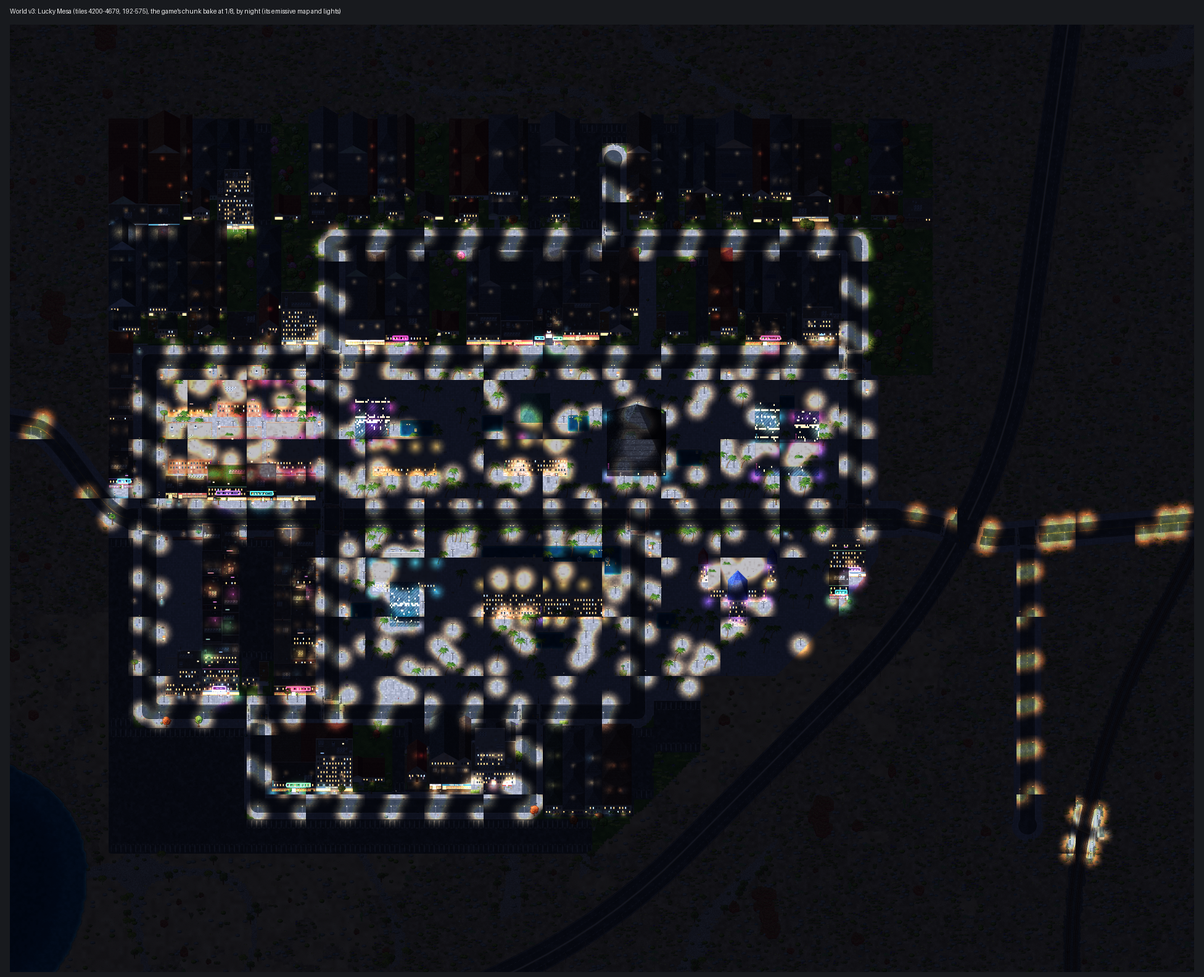
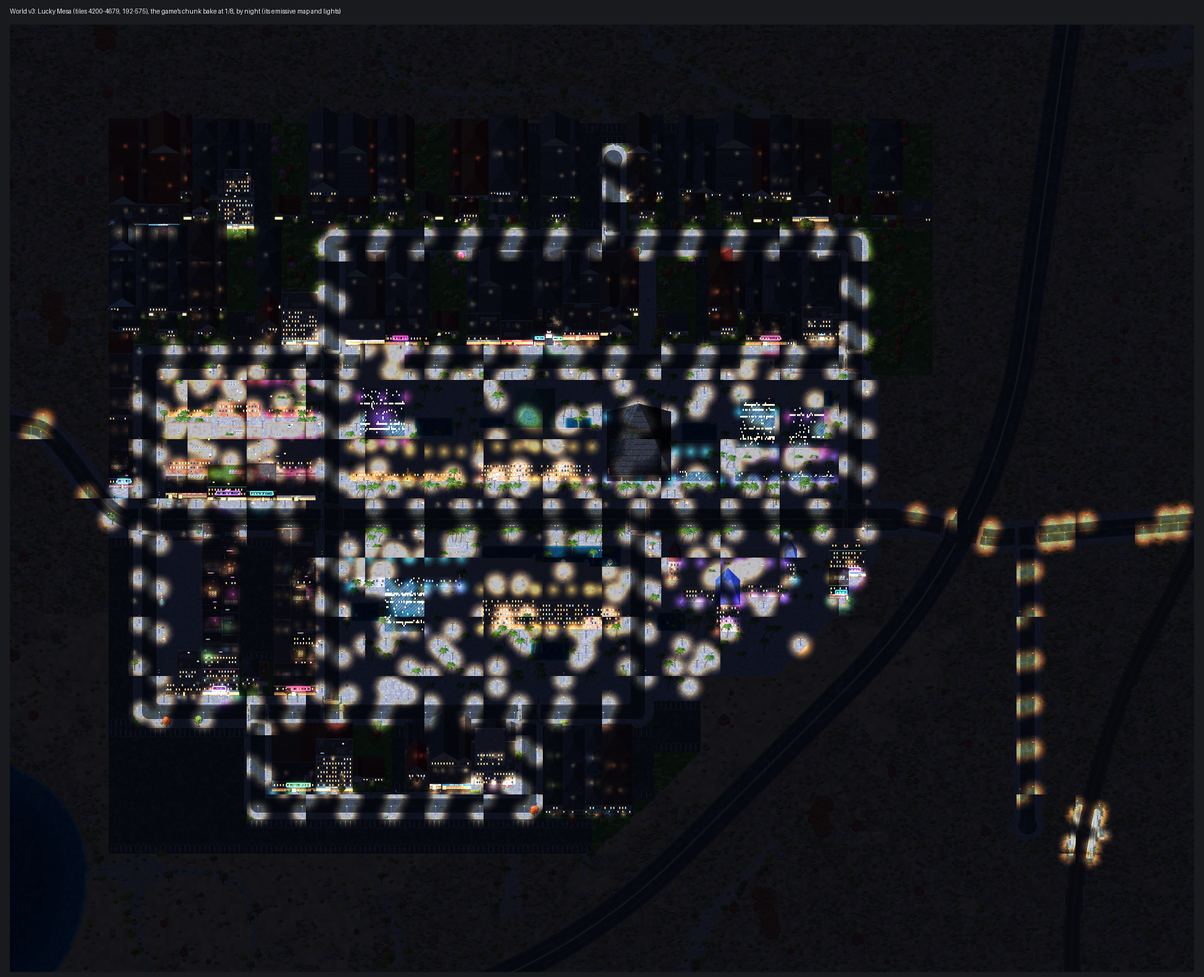
World v3: Lucky Mesa's resorts fill their lots (wings, bigger towers, roof kits), the covered street's strings of lights; 8.15 and the DEVLOG; the biomes test counts 63 districts
Claude-Session: https://claude.ai/code/session_015TdwbASoLBxZr1VoEZGToX

Changed region(s): [[0.125, 0.3403, 0.7188, 0.5259], [0.2812, 0.5568, 0.6875, 0.6806]]

diff --git a/shared/world3-mesa.js b/shared/world3-mesa.js
@@ -171,7 +171,7 @@ export function mesaLots(m) {
 // a building of the city's own (a roof record for the classic renderer, its look in `art` for art v2): solid tiles
 function addBld(m, x, y, w, h, kind, name, roofKind, look, art) {
   const W = m.w, bid = m.buildings.length;
-  for (let ty = y; ty < y + h; ty++) for (let tx = x; tx < x + w; tx++) { const i = ty * W + tx; if (m.tiles[i] === T.ROAD || m.tiles[i] === T.SIDEWALK || m.bld[i] >= 0) return null; }
+  for (let ty = y; ty < y + h; ty++) for (let tx = x; tx < x + w; tx++) { const i = ty * W + tx; if (m.tiles[i] !== T.PLAZA || !mine(m, i) || m.bld[i] >= 0) return null; }   // (only on the city's kept paving)
   m.roofs.push({ tx: x, ty: y, tw: w, th: h, kind: roofKind, seed: (Math.imul(x, 7919) ^ Math.imul(y, 104729)) >>> 0, d: m.dist[(y + (h >> 1)) * W + x + (w >> 1)], b: bid, resort: look });
   const b = { id: bid, prefab: -1, roof: m.roofs.length - 1, tx: x, ty: y, tw: w, th: h, kind, name, business: null, signs: [], art };
   m.buildings.push(b);
@@ -194,41 +194,51 @@ export function buildMesa(m, addProp) {
     // a rect in the lot's own terms: fx across it from its west edge, fd back from its front (the Strip's side)
     const rect = (fx, fd, w, d) => [x0 + fx, S ? y1 - fd - d : y0 + fd, w, d];
     const blds = [];
-    const put = (fx, fd, w, d, name, look, spec, lights, kit) => { const [x, y] = rect(fx, fd, w, d); const b = addBld(m, x, y, w, d, 'hotel', name, look === 'pyramid' ? 'glass' : 'gravel', look, { spec, lights, kit: kit || [], noShop: true, resort: R.look }); if (b) blds.push(b); return b; };
+    // (on a flat roof: a tower's helipad and water tank, a podium's air handlers - art v2's roof kit, px from its north-west)
+    const roofKit = (w, d, spec) => (spec.pitch ? [] : spec.floors >= 8 ? [['heli', w * TILE / 2, d * TILE / 2 + 40], ['tank', w * TILE - 50, 60], ['ac', 50, 60]] : [['hvac', w * TILE / 2, d * TILE / 2], ['ac', 60, 70], ['ac', w * TILE - 70, 70], ['vent', w * TILE - 60, d * TILE - 50]]);
+    const put = (fx, fd, w, d, name, look, spec, lights, kit) => { const [x, y] = rect(fx, fd, w, d); const b = addBld(m, x, y, w, d, 'hotel', name, look === 'pyramid' ? 'glass' : 'gravel', look, { spec, lights, kit: kit || roofKit(w, d, spec), noShop: true, resort: R.look }); if (b) blds.push(b); return b; };
     const mid = LW >> 1;
     const st = (o) => ({ style: 'stone', parapet: 12, roofMat: 'membrane', lip: 8, rimW: 4, ...o });
+    // (each building at most 26 tiles wide - art v2 draws it whole; a wide front is two wings side by side)
     if (R.look === 'lotus') {
-      put(mid - 13, 10, 26, 12, R.name, 'lotus', st({ floors: 2, wallColor: '#e8d6a8' }), neon(26, 12, 120, C.gold));
-      put(6, 24, 14, 14, `${R.name} Tower`, 'lotus', { floors: 10, style: 'glass', wallColor: '#c8a050', parapet: 18, roofMat: 'membrane', lip: 10 }, [...neon(14, 14, 640, C.pink, 2), [7 * TILE, -7 * TILE, 700, 260, C.pink, 2, 'neon']]);
-      water(...poolAt(rect(24, 26, 14, 7)));
+      put(4, 8, 24, 14, R.name, 'lotus', st({ floors: 2, wallColor: '#e8d6a8' }), neon(24, 14, 120, C.gold));
+      put(28, 8, 21, 12, `${R.name} Wing`, 'lotus', st({ floors: 2, wallColor: '#e2cc98' }), neon(21, 12, 120, C.gold));
+      put(8, 24, 18, 18, `${R.name} Tower`, 'lotus', { floors: 12, style: 'glass', wallColor: '#c8a050', parapet: 18, roofMat: 'membrane', lip: 10 }, [...neon(18, 18, 760, C.pink, 2), [9 * TILE, -9 * TILE, 820, 300, C.pink, 2.2, 'neon']]);
+      water(...poolAt(rect(30, 26, 16, 8)));
     } else if (R.look === 'dome') {
-      put(mid - 13, 10, 26, 14, R.name, 'dome', st({ floors: 4, wallColor: '#efe6d2' }), neon(26, 14, 240, C.gold));
-      put(mid - 6, 26, 12, 12, `${R.name} Dome`, 'dome', { floors: 3, style: 'stone', wallColor: '#e6dcc4', pitch: 'hip', slope: 0.95, roof: 'shingle', roofColor: '#4f8f80' }, [[6 * TILE, -6 * TILE, 330, 220, C.gold, 1.6, 'neon']]);
-      water(...poolAt(rect(4, 28, 9, 7))); water(...poolAt(rect(LW - 13, 28, 9, 7)));
+      put(3, 8, 23, 14, R.name, 'dome', st({ floors: 4, wallColor: '#efe6d2' }), neon(23, 14, 240, C.gold));
+      put(26, 8, 23, 14, `${R.name} East Wing`, 'dome', st({ floors: 4, wallColor: '#efe6d2' }), neon(23, 14, 240, C.gold));
+      put(18, 24, 16, 16, `${R.name} Dome`, 'dome', { floors: 3, style: 'stone', wallColor: '#e6dcc4', pitch: 'hip', slope: 0.95, roof: 'shingle', roofColor: '#4f8f80' }, [[8 * TILE, -8 * TILE, 380, 240, C.gold, 1.6, 'neon']]);
+      water(...poolAt(rect(3, 26, 11, 8))); water(...poolAt(rect(38, 26, 11, 8)));
     } else if (R.look === 'pyramid') {
-      put(3, 10, 24, 24, R.name, 'pyramid', { floors: 1, style: 'stone', wallColor: '#2a2c34', pitch: 'hip', slope: 1.25, roof: 'shingle', roofColor: '#20232c' }, [[12 * TILE, -12 * TILE, 900, 420, C.white, 2.4, 'lamp'], ...neon(24, 24, 40, C.cyan, 2)]);
-      water(...poolAt(rect(31, 14, 11, 7)));
+      put(3, 8, 26, 26, R.name, 'pyramid', { floors: 1, style: 'stone', wallColor: '#2a2c34', pitch: 'hip', slope: 1.25, roof: 'shingle', roofColor: '#20232c' }, [[13 * TILE, -13 * TILE, 1000, 460, C.white, 2.4, 'lamp'], ...neon(26, 26, 40, C.cyan, 2)]);
+      put(31, 8, 18, 12, `${R.name} Hall`, 'pyramid', st({ floors: 2, style: 'glass', wallColor: '#24262e' }), neon(18, 12, 120, C.cyan));
+      water(...poolAt(rect(33, 24, 15, 8)));
     } else if (R.look === 'glass') {
-      put(mid - 13, 10, 26, 10, R.name, 'glass', st({ floors: 2, style: 'glass', wallColor: '#2c3c5c' }), neon(26, 10, 120, C.violet));
-      put(mid - 13, 22, 10, 12, `${R.name} East`, 'glass', { floors: 10, style: 'glass', wallColor: '#4a7ab0', parapet: 12, roofMat: 'membrane', lip: 8 }, neon(10, 12, 640, C.cyan, 2));
-      put(mid + 3, 22, 10, 12, `${R.name} West`, 'glass', { floors: 8, style: 'glass', wallColor: '#9a4a9a', parapet: 12, roofMat: 'membrane', lip: 8 }, neon(10, 12, 530, C.pink, 2));
-      water(...poolAt(rect(mid - 5, 37, 10, 6)));
+      put(3, 8, 24, 10, R.name, 'glass', st({ floors: 2, style: 'glass', wallColor: '#2c3c5c' }), neon(24, 10, 120, C.violet));
+      put(27, 8, 16, 10, `${R.name} Hall`, 'glass', st({ floors: 2, style: 'glass', wallColor: '#2c3c5c' }), neon(16, 10, 120, C.violet));
+      put(5, 20, 14, 16, `${R.name} East`, 'glass', { floors: 12, style: 'glass', wallColor: '#4a7ab0', parapet: 12, roofMat: 'membrane', lip: 8 }, neon(14, 16, 760, C.cyan, 2));
+      put(25, 20, 14, 14, `${R.name} West`, 'glass', { floors: 10, style: 'glass', wallColor: '#9a4a9a', parapet: 12, roofMat: 'membrane', lip: 8 }, neon(14, 14, 640, C.pink, 2));
+      water(...poolAt(rect(28, 38, 15, 7)));
     } else if (R.look === 'star') {
-      put(mid - 13, 10, 26, 12, R.name, 'star', st({ floors: 2, wallColor: '#e4e8ee' }), neon(26, 12, 120, C.cyan));
-      put(mid - 6, 24, 12, 12, `${R.name} Spire`, 'star', { floors: 10, style: 'glass', wallColor: '#dde4ee', parapet: 22, roofMat: 'membrane', lip: 10 }, [...neon(12, 12, 660, C.white, 2), [6 * TILE, -6 * TILE, 720, 300, C.cyan, 2.2, 'neon']]);
-      water(...poolAt(rect(4, 26, 9, 7)));
+      put(4, 8, 24, 12, R.name, 'star', st({ floors: 2, wallColor: '#e4e8ee' }), neon(24, 12, 120, C.cyan));
+      put(28, 8, 21, 12, `${R.name} Wing`, 'star', st({ floors: 2, wallColor: '#dde2ea' }), neon(21, 12, 120, C.cyan));
+      put(18, 22, 16, 16, `${R.name} Spire`, 'star', { floors: 12, style: 'glass', wallColor: '#dde4ee', parapet: 22, roofMat: 'membrane', lip: 10 }, [...neon(16, 16, 780, C.white, 2), [8 * TILE, -8 * TILE, 840, 320, C.cyan, 2.2, 'neon']]);
+      water(...poolAt(rect(4, 26, 12, 8)));
     } else if (R.look === 'lake') {
-      water(...poolAt(rect(4, 3, LW - 8, 12), true), true);
-      put(4, 19, 25, 14, R.name, 'lake', st({ floors: 6, wallColor: '#efe2c8' }), neon(25, 14, 360, C.gold));
-      put(29, 19, 25, 14, `${R.name} South`, 'lake', st({ floors: 5, wallColor: '#e8dac0' }), neon(25, 14, 300, C.gold));
-      water(...poolAt(rect(mid - 6, 38, 12, 7)));
-      const [lx, ly, lw, ld] = rect(4, 3, LW - 8, 12);
-      for (let k = 0; k < 5; k++) { addProp(m, 'fountain', (lx + lw * (k + 0.5) / 5) * TILE, (ly + ld / 2) * TILE, 0); out.lake++; }
+      water(...poolAt(rect(4, 3, LW - 8, 14), true), true);
+      put(4, 21, 22, 16, R.name, 'lake', st({ floors: 7, wallColor: '#efe2c8' }), neon(22, 16, 420, C.gold));
+      put(26, 21, 22, 16, `${R.name} Center`, 'lake', st({ floors: 6, wallColor: '#ece0c6' }), neon(22, 16, 360, C.gold));
+      put(48, 21, 13, 16, `${R.name} South`, 'lake', st({ floors: 5, wallColor: '#e8dac0' }), neon(13, 16, 300, C.gold));
+      water(...poolAt(rect(24, 42, 16, 8)));
+      const [lx, ly, lw, ld] = rect(4, 3, LW - 8, 14);
+      for (let k = 0; k < 6; k++) { addProp(m, 'fountain', (lx + lw * (k + 0.5) / 6) * TILE, (ly + ld / 2) * TILE, 0); out.lake++; }
     } else if (R.look === 'castle') {
-      put(mid - 12, 12, 24, 14, R.name, 'castle', st({ floors: 3, wallColor: '#f2f0ea', parapet: 16 }), neon(24, 14, 200, C.violet));
-      for (const [fx, col] of [[mid - 16, '#c83a3a'], [mid + 12, '#3a5ac8']]) put(fx, 14, 4, 4, `${R.name} Turret`, 'castle', { floors: 4, style: 'stone', wallColor: '#f2f0ea', pitch: 'hip', slope: 2.4, roof: 'shingle', roofColor: col }, []);
-      put(mid - 4, 28, 8, 8, `${R.name} Keep`, 'castle', { floors: 6, style: 'stone', wallColor: '#ecebe6', pitch: 'hip', slope: 2.0, roof: 'shingle', roofColor: '#3a5ac8' }, [[4 * TILE, -4 * TILE, 420, 200, C.violet, 1.6, 'neon']]);
-      water(...poolAt(rect(4, 30, 9, 7)));
+      put(14, 10, 24, 16, R.name, 'castle', st({ floors: 3, wallColor: '#f2f0ea', parapet: 16 }), neon(24, 16, 200, C.violet));
+      put(38, 10, 18, 14, `${R.name} Hall`, 'castle', st({ floors: 3, wallColor: '#eeece4', parapet: 16 }), neon(18, 14, 200, C.violet));
+      for (const [fx, col] of [[9, '#c83a3a'], [56, '#3a5ac8']]) put(fx, 12, 5, 5, `${R.name} Turret`, 'castle', { floors: 4, style: 'stone', wallColor: '#f2f0ea', pitch: 'hip', slope: 2.4, roof: 'shingle', roofColor: col }, []);
+      put(28, 28, 10, 10, `${R.name} Keep`, 'castle', { floors: 6, style: 'stone', wallColor: '#ecebe6', pitch: 'hip', slope: 2.0, roof: 'shingle', roofColor: '#3a5ac8' }, [[5 * TILE, -5 * TILE, 460, 220, C.violet, 1.6, 'neon']]);
+      water(...poolAt(rect(4, 30, 12, 8)));
     }
     // the casino's door on the podium's front (the first building), a named place for the gambling to come (GM3, GM4)
     const main = blds[0];
@@ -255,6 +265,9 @@ export function buildMesa(m, addProp) {
   // Old Downtown's covered street: lamps down its middle under the canopy, the old casinos either side fronting it
   const [cx0, cy0, cx1, cy1] = MESA.canopy;
   for (let x = cx0 + 3; x < cx1 - 2; x += 6) addProp(m, 'lamp', (x + 0.5) * TILE, (cy0 + cy1) / 2 * TILE, 5);
+  // the canopy of lights: strings of bulbs across the street every two tiles, high over the crowd, and two along it
+  for (let x = cx0 + 1; x < cx1; x += 2) { addProp(m, 'festoon', (x + 0.5) * TILE, cy0 * TILE + 4, 0, { tx: 0, ty: (cy1 - cy0) * TILE - 8, h: 110 }); out.lights = (out.lights || 0) + 1; }
+  for (const y of [cy0 + 0.2, cy1 - 0.2]) addProp(m, 'festoon', (cx0 + 0.5) * TILE, y * TILE, 0, { tx: (cx1 - cx0 - 1) * TILE, ty: 0, h: 112 });
   const warm = ['#d8b890', '#c89878', '#e0c8a0', '#b88868', '#d0a080', '#c8b098'];
   MESA.oldCasinos.forEach(([name, a, b, side], k) => {
     const N = side === 'N', y = N ? cy0 - 16 : cy1, w = b - a, d = 15;

diff --git a/test/world3biomes.test.js b/test/world3biomes.test.js
@@ -14,7 +14,7 @@ import { prepare } from '../tools/world3-build.mjs';
 
 test('World v3: the mainland\'s biomes - their districts, ground and dressing; Northshore at its beach', { timeout: 300000 }, () => {
   // the new districts are the generator's (after today's: today's ids don't move), shaped like today's
-  assert.equal(DISTRICTS.length, 60);   // (57-59: the first mainland towns, 8.13 - test/world3towns.test.js)
+  assert.equal(DISTRICTS.length, 63);   // (57-59: the first mainland towns, 8.13 - test/world3towns.test.js; 60-62: Lucky Mesa, 8.15 - test/world3mesa.test.js)
   DISTRICTS3.forEach((d, k) => assert.equal(DISTRICTS[47 + k], d));
   const prep = prepare();
   const m = generateCity(1337, { world3: true, frame: { w: FRAME_W, h: FRAME_H }, land: prep.land, today: prep.today });

diff --git a/docs/WORLD-V3.md b/docs/WORLD-V3.md
@@ -3061,3 +3061,104 @@ the logging town's wooden shopfronts with porches, the sawmill and log yard, the
 grain elevator and silos, the feed store, the co-op with its loading dock; the beach town's surf shop, cottages, beach
 houses on stilts - and the planned places put in them (`TOWN_SPECIALS`); the boardwalk as a model of its own (rails,
 benches, the pier's end); the lots at the corners of Willow Crossing's loops.
+
+### 8.15 Lucky Mesa, the casino city (2026-10-11, H38)
+
+Part 1.3's three new districts and 1.5 R6: the Strip of themed resorts, the old downtown's covered street of lights, the
+side streets with motels, wedding chapels, pawn shops, a trailer park and tract homes, the syndicate's back rooms
+(concepts VG1, VG2; prompts VG3, VG4). Built by today's generator on new ground round the skeleton's town point
+(4600, 420), where Mesa Road and Route 9 meet the Desert Highway at grade. Nothing live changes: the world hash stays
+`6b6e16fdef9f`; the city's code is `shared/world3-mesa.js` (the world build's only: the page and the city worker never
+import it); `shared/mapcore.js` `DISTRICTS` has three more entries (60-62).
+
+**How it is built** (`shared/world3-mesa.js`, one call each from `shared/world3-world.js`, as the towns, 8.13):
+- **Its districts** (`DISTRICTS` 60-62, after the towns' 57-59, so no id moves): **The Strip** (`nightlife`, `lux`),
+  **Old Downtown** (`nightlife`, `low`) and **Mesa Flats**, the side streets and suburbs (`houses`, `suburb`), painted
+  with the mainland's built zone (8) on the land layer by `paintMesa3` (`MESA.ground`: boxes, a later district over an
+  earlier) off the Desert Highway's room (24 tiles), the main line's (18) and its station's (30); the desert's sand under
+  the city is made plain desert, so the build lays lots there, not a beach.
+- **Its streets** (`layMesa3`, the `lines` hook after the towns' and the beach towns'): **the Strip is Mesa Road pulled
+  straight** on row 392 from Gold Street to the hub (the towns' `pull`, 8.13.1; `pulledAt` knows it) and its straight
+  run laid as a boulevard (`blvd`: two lanes each way with a median, commercial pavements) - 308 tiles of it; the side
+  streets (`st`): Palm Row behind the north resorts, Chapel Street, Gold Street and Silver Street round Old Downtown (both
+  across the Strip), Lucky Street and Cactus Street, Mesa Flats Drive and the trailer park's loop (Trailer Lane), a lane
+  out into the desert (Chapel Lane, ending in a turnaround) and **Station Road** from Route 9 down to the main line's
+  Lucky Mesa station (8.10), ending beside its platforms.
+- **The lots** (`mesaLots`, the `rails` hook, before the blocks): the seven resorts' lots along the Strip, end to end,
+  and Old Downtown's covered street with its old casinos' lots, kept as paving (reserve 4, the promenade's: no block
+  takes them, nothing is dressed on them).
+- **The resorts** (`buildMesa`, the `dress` hook: the props have their pass), each a big footprint of its own invented
+  look, the casino's door on the Strip (a named place, `delivery`, fixed, marked `casino`: the gambling to come, GM3 and
+  GM4 - not walk-ins yet): **The Golden Lotus** (a gold glass tower behind a cream casino podium, pink neon at its top),
+  **Palazzo Aurelio** (a palace of two cream wings round a copper-green domed hall, a pool each side), **The Sunstone
+  Pyramid** (a black glass pyramid, 26 tiles square, with its beam of light and a black glass hall), **The Prism**
+  (twin glass towers, blue and violet, over a dark glass podium), **Starfall Tower** (a white glass spire over a white
+  podium), **The Silver Lagoon** (three cream wings behind the fountain lake, six fountains in it) and **Castillo Dorado**
+  (a white castle with red and blue coned turrets and a blue-roofed keep). Each has its porte-cochere drive along the
+  Strip (palms along it, lamps at the door), its pools with loungers and umbrellas, palms round them. Their looks are
+  the buildings' `art` (art v2's `statics.js` reads it, as the hero corner's: the spec - floors, walls, the pitched roofs
+  of the pyramid, the dome and the turrets - and the neon along their top edges at night); no art code changed. The
+  classic renderer draws them as hotels with their roofs (`resort` on the roof record says which look, for later).
+- **Old Downtown's covered street of lights** (`MESA.canopy`): a pedestrian street of paving seven tiles wide between
+  Gold and Silver streets, lamps down its middle, three old casinos either side fronting it - The Gilded Spur, The Dusty
+  Ace, The Prospector, Wagon Wheel Casino, Silver Mule Casino, Rattlesnake Ruby - with bulb-sign neon along their fronts.
+- **The planned places** (`MESA_SPECIALS`, handed in with the towns' as `opts.specials`; fixed): in Old Downtown
+  Second Roll Pawn and Blue Chip Pawn & Loan (a strip with a jeweller and a cash exchange), The Copper Room Supper Club
+  with **The Counting Room** (`gang`: the syndicate's back rooms, VG2), Mesa Savings & Trust (`bank`), Club Neon Cactus,
+  the Horseshoe Motor Inn; in Mesa Flats Mesa Sportsman Arms (`gunshop`) with Third Roll Pawn, the bridal shop and the
+  loans, the Desert Rose Wedding Chapel and the Chapel of the Lucky Heart, the Blue Mesa and Cactus Flower motels,
+  Lucky Mesa General (`hospital`), Lucky Mesa Police, the Jackpot Diner, Club Mojave Nights, and Lucky Mesa Fuel (a store
+  that becomes the gas station with its pumps, `mesaDone`). The districts' styles (`MESA_STYLES`, with the towns' as
+  `opts.styles`): the Strip's leftovers clubs and show rooms, Old Downtown low shops, motels, arcades, bars and tattoo
+  parlours with car parks, the flats tract homes and trailers (the shacks) with car parks. The generator's own passes
+  add ATMs (at the casinos' doors too), a gas station, homes for sale and bus stops on the Strip.
+
+**What's built** (the world build, seed 1337: `m.world3.mesa`; `test/world3mesa.test.js`):
+
+| district | its ground | buildings | what's in it |
+|---|---|---|---|
+| The Strip (60) | 26,595 tiles | 24 | the seven resorts' 22 buildings (660-912 tiles of building each), 8 pools, the lagoon's lake and its 6 fountains, 90 palms on the drives |
+| Old Downtown (61) | 13,500 tiles | 20 | the covered street (7 x 61 tiles, 30 strings of bulbs across it) and its six old casinos, the pawn strip, the supper club and the counting room, the bank, Club Neon Cactus, the motor inn and motels |
+| Mesa Flats (62) | 47,415 tiles | 110 | tract homes and trailers, the motels, the chapels, the gun shop's strip, the hospital, the police, the diner, a club, two gas stations |
+
+The streets: 308 tiles of the Strip (boulevard), 10 side streets (1,554 tiles); Station Road ends 23 tiles from the
+station's point, beside its platforms. 23,280 tiles of lots kept for the resorts and the covered street. 89 places in
+the city: 13 casinos (7 resorts, 6 old), 5 clubs, 3 pawn shops, a gun shop, the bank, 13 ATMs, the counting room, the
+hospital, the police, 2 gas stations, 26 homes for sale; 4 bus stops on the Strip.
+
+**The test** (`test/world3mesa.test.js`, one world build, about 40 s): the districts after the towns' (ids, names,
+styles); their ground; every street laid and on the one network; the Strip a boulevard straight on its row for 280
+tiles or more; Station Road ending within 32 tiles of the station; each resort on its lot with its look, 400 tiles of
+building or more, its casino door, its pool (the lagoon its lake), six palms or more; the covered street paved and its
+six old casinos fronting it; every planned place in the city with its kind, the pawn shops, the gun shop, the clubs,
+the bank, the counting room, the hospital, the police, the gas station and its pumps, two wedding chapels, three motels,
+a bus stop, an ATM; no building corner within 22 tiles of a highway's line or 14 of the main line's.
+`test/world3biomes.test.js` counts 63 districts now.
+
+**The pictures** (`node --expose-gc tools/world3-world-map.mjs --sample 0 --towns --only mesa --night`: the city's box
+and 24 tiles round it through the game's chunk bake at 1/8, 320 chunks, about two minutes; `--only` and `--night` are
+new: the night picture is the albedo under a dim blue sky, the bake's emissive map and the chunk's lights splashed on
+the ground): `docs/world-v3-town-mesa.png`, `docs/world-v3-town-mesa-night.png`. What looks right: the Strip reads as a
+casino boulevard - the black pyramid, the copper-green domed hall between the palace's wings, the castle's red and blue
+cones round its blue-roofed keep, the twin glass towers, the lagoon's long cream front behind its fountain lake, the gold
+tower and the white spire on their podiums - palms along every drive, pools beside the towers; Old Downtown's six old
+casinos face each other across the covered street; the motels' long rows south of the Strip in Old Downtown; the flats'
+houses along Chapel Street and Palm Row; Station Road down to the platforms east of the highway; by night the resorts'
+neon (violet, pink, cyan, gold) and their towers' lit windows. What looks wrong:
+- **Too much bare paving:** the south resorts' lots run 66 tiles back from the Strip and only their front two thirds are
+  built - the rest is paving with palms and the generator's lamps (it lays lamps over every paved lot, which also
+  crowds the night picture with their pools of light). The resorts want car parks and garages at the back, fewer lamps.
+- **The crowns don't read from above:** the towers' roofs are flat (a helipad, a tank, air handlers): the lotus crown,
+  the star on the spire and the pyramid's beam (a light) aren't shapes yet, and the dome is a hip roof in copper green,
+  not round - art v2 models of their own (a crown, a spire's top, a dome) are what's missing.
+- **Mesa Flats is green:** the tract homes' prefabs bring lawns and gardens (the `houses` look); a desert suburb wants
+  gravel yards, cactus and pools. The south-west corner is one big car park (the flats' `parking` filler on a big
+  leftover lot) and the trailer park is a few shacks on its loop: trailers want a prefab.
+- The night picture is the tool's approximation, not the game's lighting: each chunk's lights stop at its edge (the
+  square cut-offs).
+
+**What's left:** pedestrian bridges over the Strip (the road network has no kind for people only - 8.4's footbridges are
+narrow lanes - so none are laid); the canopy of lights as a model of its own (strings of bulbs across the street for
+now); the casinos as walk-ins with their games (GM3, GM4), the counting room and the boss's office as rooms (VG2); the
+resorts' crowns and the classic renderer's drawing of their looks (`resort` on the roof record); the airport, the welcome
+sign on the highway, the fountain show; the resorts' car parks; a desert look for the flats (yards, trailers).

diff --git a/docs/DEVLOG.md b/docs/DEVLOG.md
@@ -7590,3 +7590,42 @@ Files: shared/world3-towns.js (`TOWNS3` laid out again, `pull`, `townsFront`, `T
 Tests: test/world3towns.test.js (one world build: each town's side streets on the network, at most two dead ends, the
 main street straight across the town, lots fronting it, less road than building, the boardwalk and the pier; 8.13's
 basics and places), test/world3beach.test.js (the beach towns less dense than the city).
+
+## 2026-10-11 · World v3: Lucky Mesa, the casino city
+
+The owner's plan (docs/WORLD-V3.md 1.3, 1.5 R6): "New city: Lucky Mesa, the casino city: the Strip of themed resorts
+with invented names and looks (a lotus-crowned tower, a domed palace, a pyramid with a beam, glass towers), the
+fountain show, wedding chapels, the old downtown's covered street of lights, motels and pawn shops on the side
+streets ... the syndicate's back rooms" - built in the v3 world build at the skeleton's Lucky Mesa town point, on the
+Desert Highway (docs/WORLD-V3.md 8.15).
+- **Three districts** after the towns' (60 The Strip, 61 Old Downtown, 62 Mesa Flats - the side streets and suburbs),
+  painted round the hub where Mesa Road and Route 9 meet the Desert Highway, off the highway's and the main line's room.
+- **The Strip:** Mesa Road pulled straight through the city and laid as a boulevard (two lanes each way, a median) for
+  308 tiles, the resorts end to end along both sides; side streets behind them and round Old Downtown and the flats, a
+  trailer park's loop, a lane out into the desert, and Station Road down to the main line's Lucky Mesa station.
+- **Seven resorts**, each its own invented look built from the art v2 building spec (the map sets each building's `art`,
+  as the hero corner does - no art code changed): a gold tower with pink neon (The Golden Lotus), a palace round a
+  copper-green dome (Palazzo Aurelio), a black glass pyramid with its beam (The Sunstone Pyramid), twin blue and violet
+  glass towers (The Prism), a white spire (Starfall Tower), cream wings behind a fountain lake with six fountains (The
+  Silver Lagoon), a white castle with red and blue coned turrets (Castillo Dorado); porte-cochere drives with palms and
+  lamps, pools with loungers, neon along the roofs at night. Each casino's door is a named place marked `casino`, for
+  the gambling to come (GM3, GM4).
+- **Old Downtown's covered street of lights:** a pedestrian street (paving) between two streets, lamps down it, six old
+  casinos fronting it with bulb-sign neon.
+- **The places:** pawn shops, a gun shop, clubs, a supper club with the syndicate's counting room (`gang`), a bank, ATMs,
+  motels, two wedding chapels, a diner, the hospital, the police, a gas station with its pumps, bus stops on the Strip.
+- `tools/world3-world-map.mjs --towns` pictures Lucky Mesa too; `--only <key>` one town, `--night` a night picture
+  (the albedo dimmed, the emissive map, the lights splashed on the ground).
+- Not done: pedestrian bridges over the Strip (the road network has no kind for people only - 8.4's footbridges are
+  narrow lanes), the canopy of lights as a model, the casinos as walk-ins, the airport, the welcome sign, the resorts'
+  drawing in the classic renderer (it draws them as hotels). Nothing live changes: the world hash stays 6b6e16fdef9f.
+
+Files: shared/world3-mesa.js (new), shared/world3-world.js (the calls), shared/world3-towns.js (`stamp` and `pull`
+exported; `pulledAt` knows the Strip), shared/mapcore.js (`DISTRICTS` 60-62), tools/world3-world-map.mjs (`--only`,
+`--night`, Lucky Mesa in `--towns`), test/world3mesa.test.js (new), test/world3biomes.test.js (63 districts),
+docs/WORLD-V3.md 8.15, docs/world-v3-town-mesa.png, docs/world-v3-town-mesa-night.png.
+
+Tests: test/world3mesa.test.js (one world build: the districts, the streets on the one network, the Strip straight as a
+boulevard, Station Road to the station, each resort's look, door, pool and palms, the covered street and its old
+casinos, every planned place, clear of the highway and the main line), test/world3biomes.test.js, test/world3roads.test.js,
+test/world3towns.test.js.
